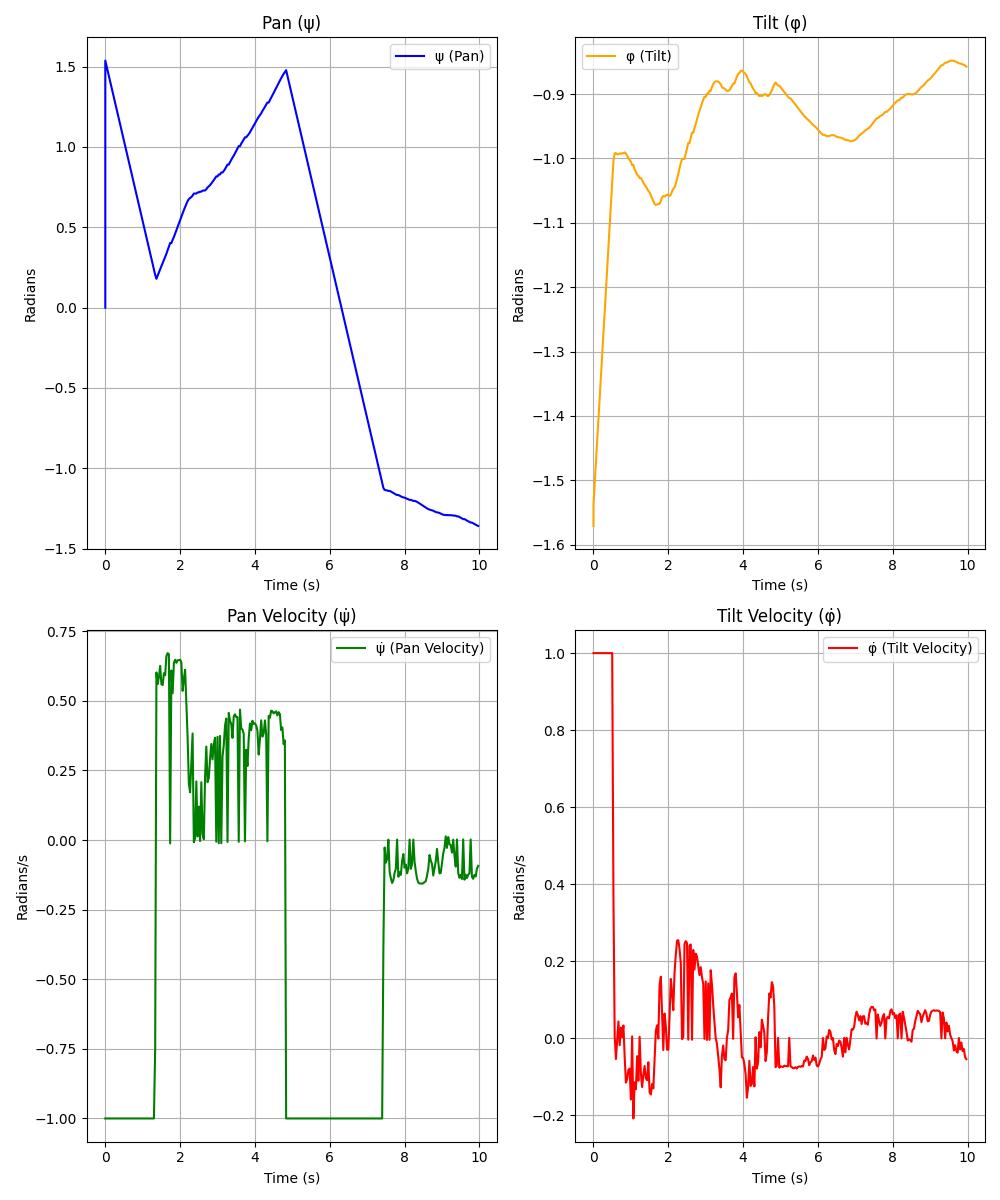
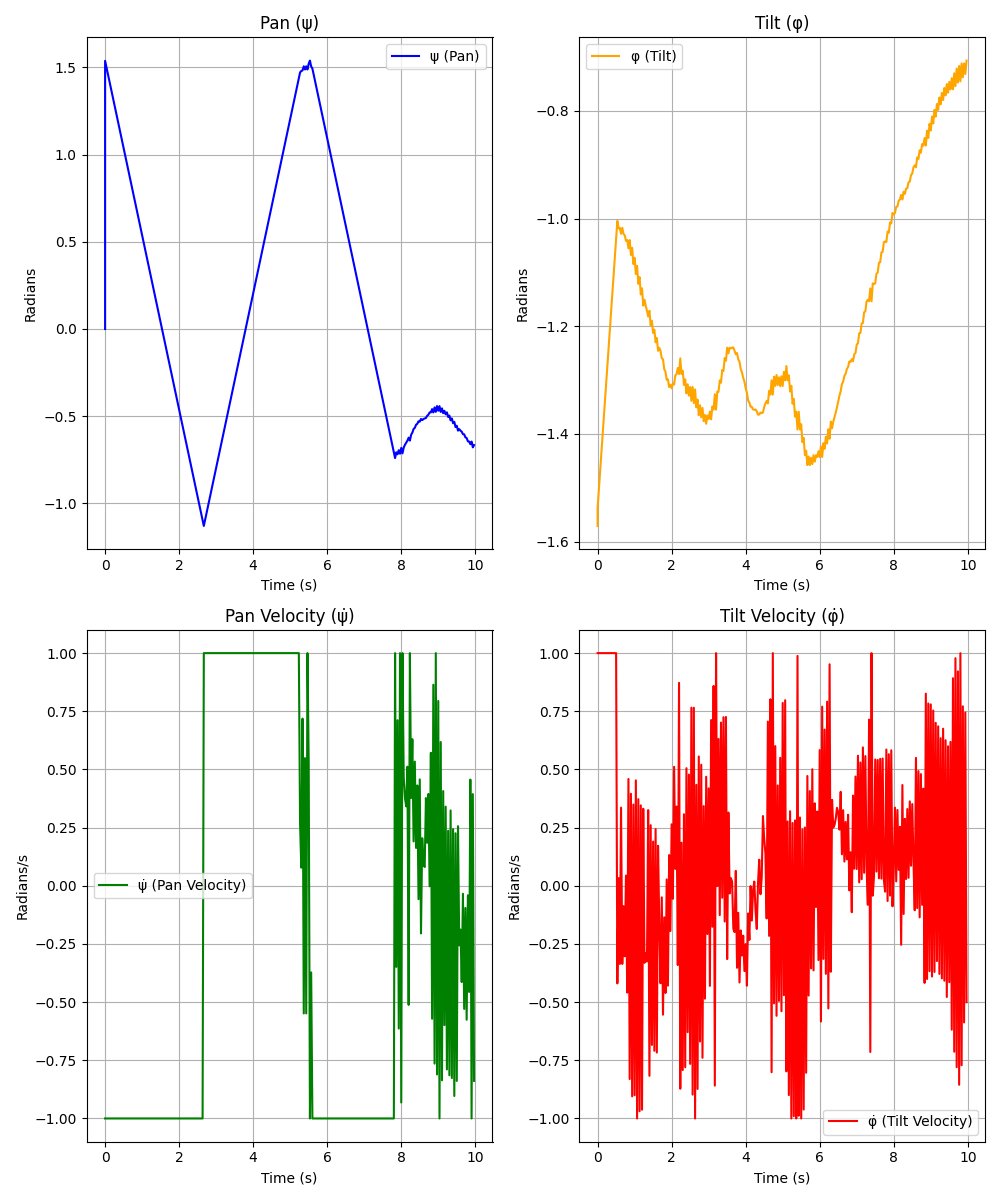
Generate Plot For Non-PID Control

diff --git a/sim.py b/sim.py
@@ -17,7 +17,6 @@ def dynamic_camera_simulation(sensor_w, sensor_h, f, x_c, simulation_time, fps, 
     ax_3d.set_ylim(0, 40)  
     ax_3d.set_zlim(0, 20) 
 
-
     # Data storage
     times = []
     psi_values = []
@@ -44,8 +43,13 @@ def dynamic_camera_simulation(sensor_w, sensor_h, f, x_c, simulation_time, fps, 
     animal2 = WildAnimal(ax_3d, x_init=10, y_init=15, color="C4")
 
     # Initialize PID controllers
-    pid_psi = PIDController(Kp=30, Ki=0.1, Kd=0.05, output_limits=(-1, 1))
-    pid_phi = PIDController(Kp=30, Ki=0.1, Kd=0.05, output_limits=(-1, 1))
+    # pid_psi = PIDController(Kp=30, Ki=0.1, Kd=0.05, output_limits=(-1, 1))
+    # pid_phi = PIDController(Kp=30, Ki=0.1, Kd=0.05, output_limits=(-1, 1))
+
+    # Non-PID controller
+    pid_psi = PIDController(Kp=60, Ki=0, Kd=0, output_limits=(-1, 1))
+    pid_phi = PIDController(Kp=60, Ki=0, Kd=0, output_limits=(-1, 1))
+
 
     sort_tracker = SORTTracker()
     tracked_artists = {}
